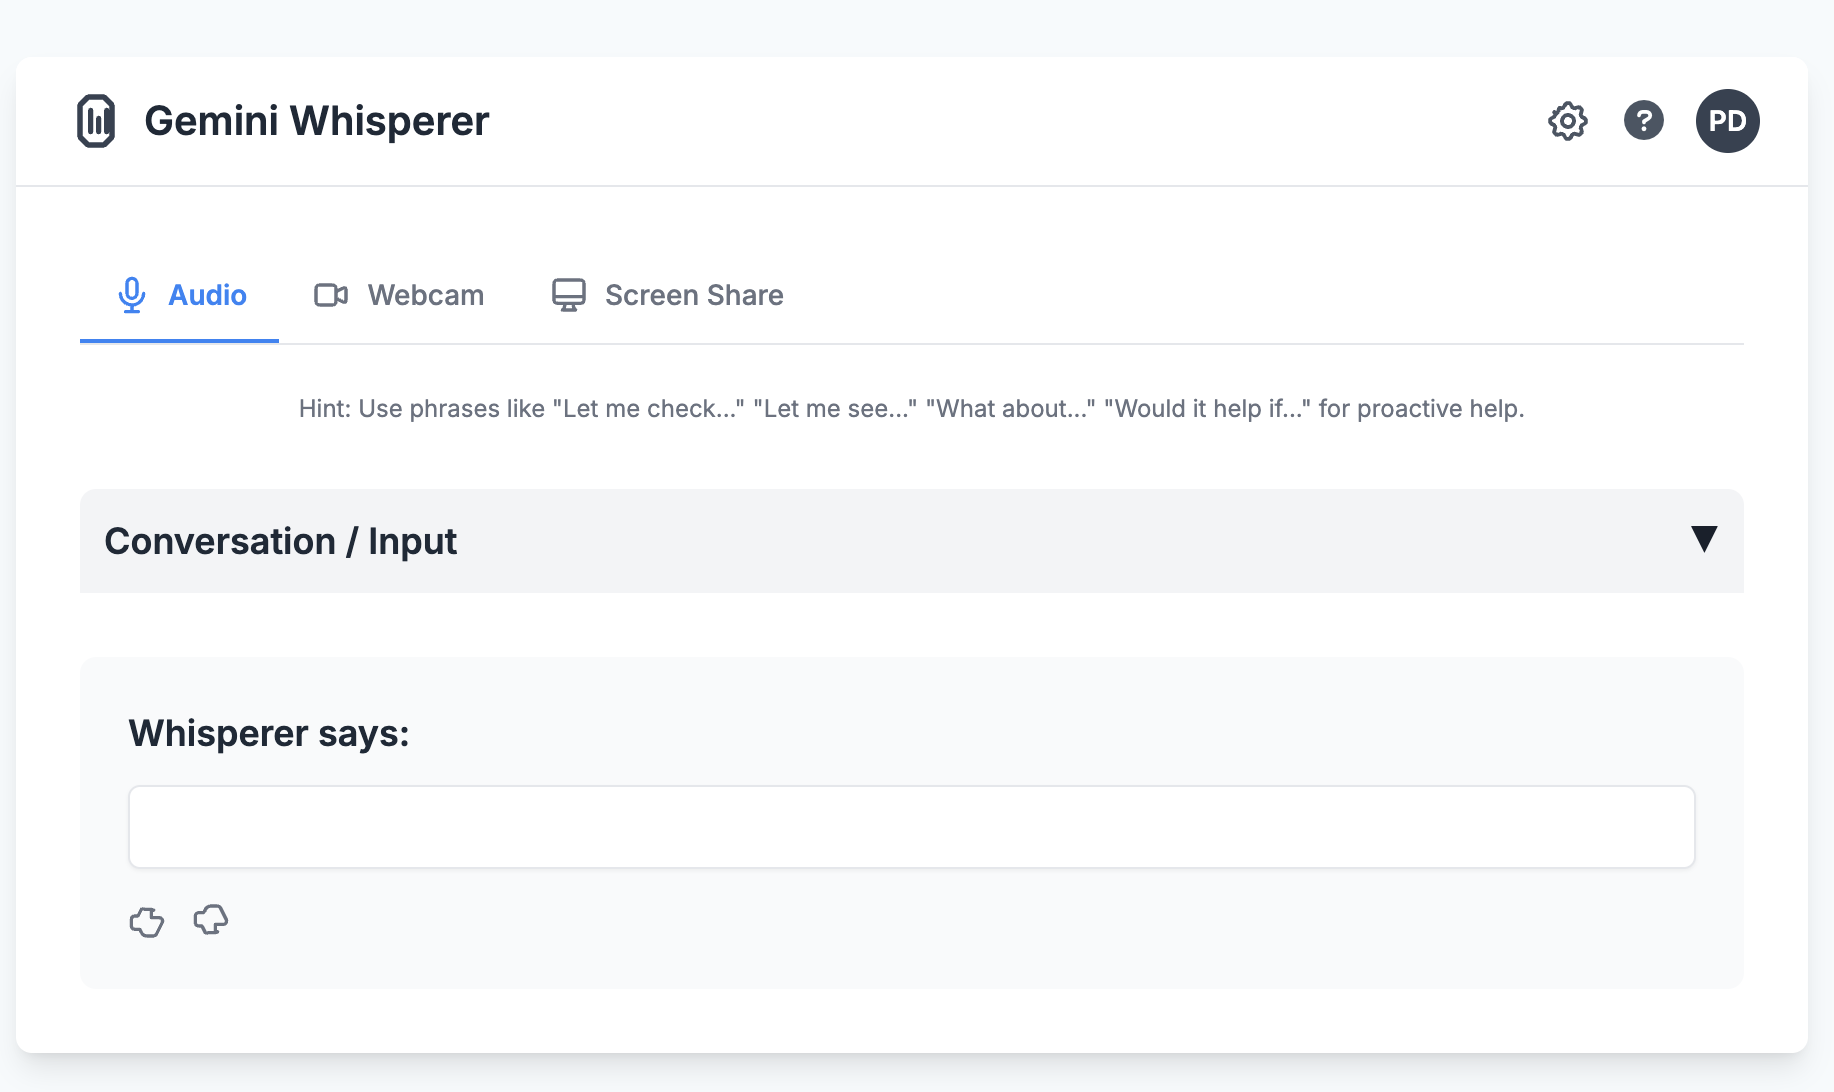
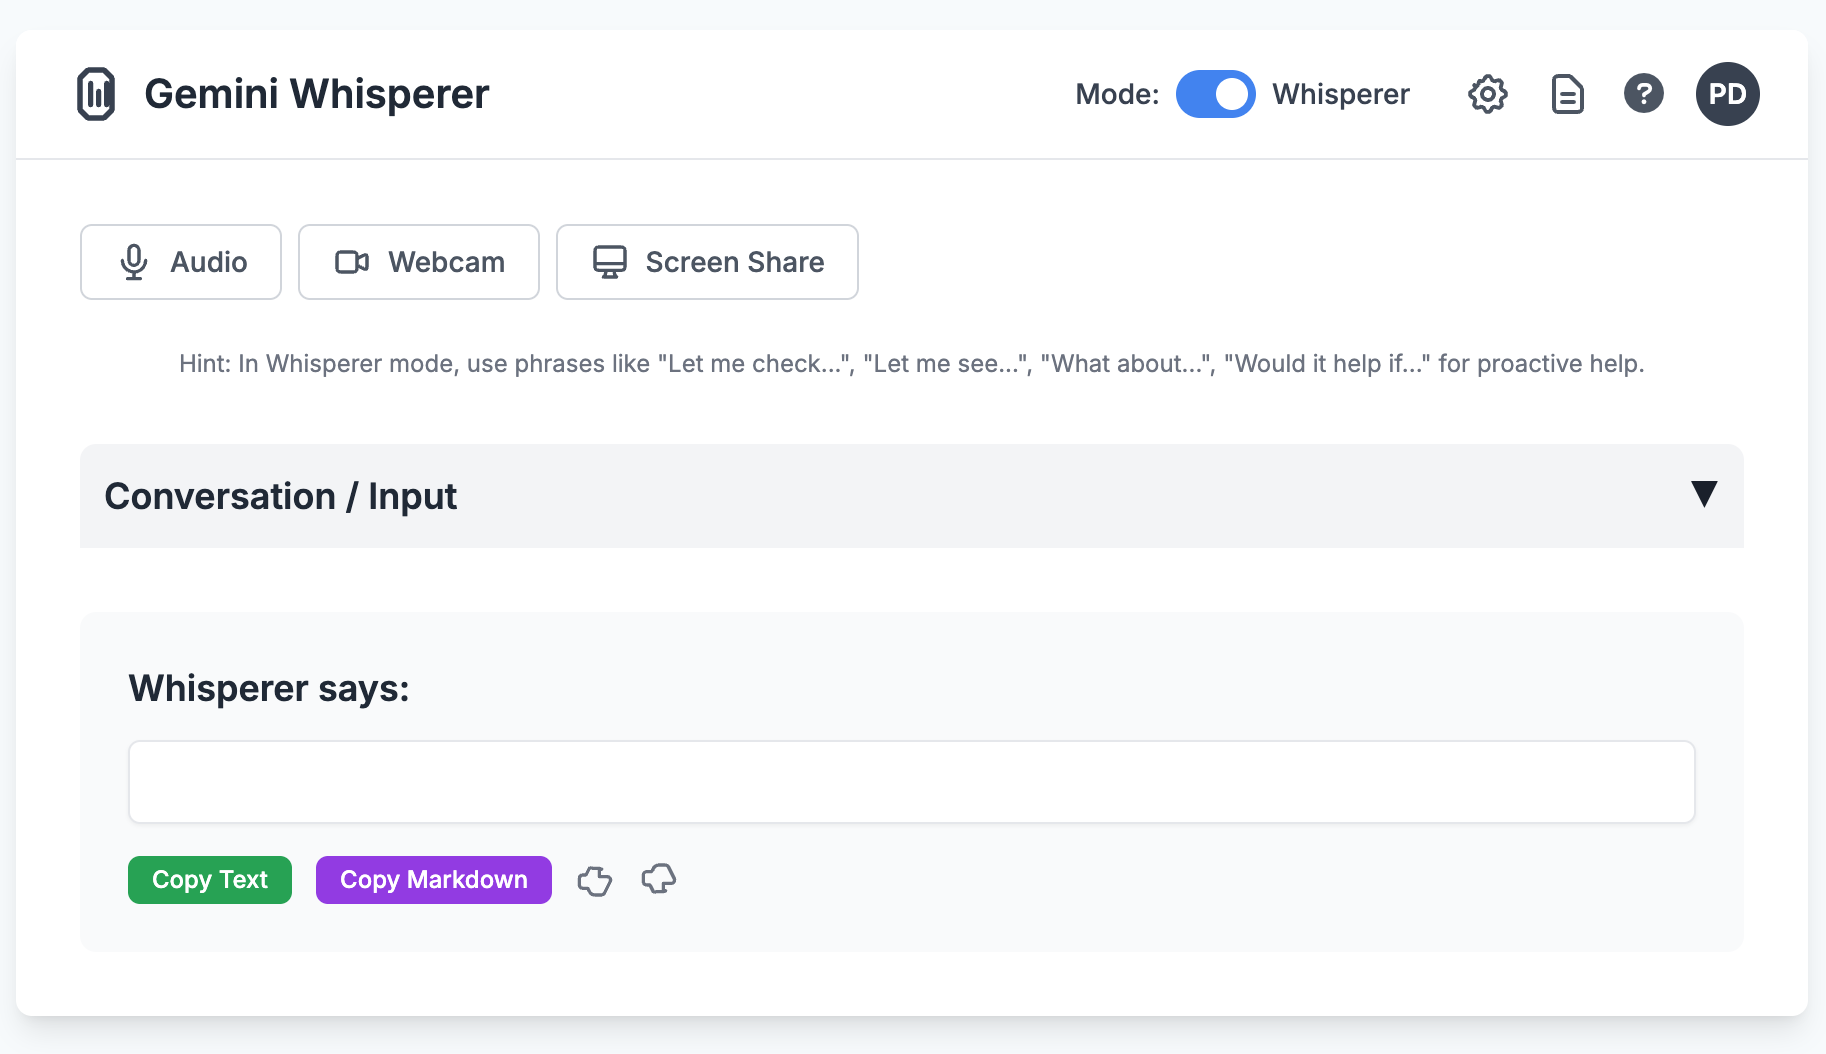
Modified readme, setup.sh and license

diff --git a/build.js b/build.js
@@ -1,5 +1,7 @@
 const fs = require('fs');
 const path = require('path');
+const Terser = require('terser');
+const csso = require('csso');
 
 const HTML_INPUT_PATH = 'index.html';
 const CSS_INPUT_PATH = 'css/styles.css';
@@ -132,8 +134,18 @@ async function buildSingleHtmlFile() {
     }
 
     let htmlContent = readFileContent(HTML_INPUT_PATH);
-    const cssContent = readFileContent(CSS_INPUT_PATH);
-    const audioWorkletContent = readFileContent(AUDIO_WORKLET_PATH);
+    let cssContent = readFileContent(CSS_INPUT_PATH);
+    let audioWorkletContent = readFileContent(AUDIO_WORKLET_PATH);
+
+    // Minify CSS
+    console.log('Minifying CSS...');
+    try {
+        cssContent = csso.minify(cssContent).css;
+        console.log('CSS minified successfully.');
+    } catch (error) {
+        console.error('Error minifying CSS:', error);
+        process.exit(1);
+    }
 
     // Inline CSS
     console.log('Inlining CSS...');
@@ -141,6 +153,20 @@ async function buildSingleHtmlFile() {
         /<link\s+rel="stylesheet"\s+href="css\/styles\.css">/,
         `<style>\n${cssContent}\n</style>`
     );
+
+    // Minify Audio Worklet JS
+    console.log('Minifying Audio Worklet JS...');
+    try {
+        const minifiedWorklet = await Terser.minify(audioWorkletContent);
+        if (minifiedWorklet.error) {
+            throw minifiedWorklet.error;
+        }
+        audioWorkletContent = minifiedWorklet.code;
+        console.log('Audio Worklet JS minified successfully.');
+    } catch (error) {
+        console.error('Error minifying Audio Worklet JS:', error);
+        process.exit(1);
+    }
 
     // Concatenate and process JS files
     console.log('Processing JavaScript files...');
@@ -151,12 +177,9 @@ async function buildSingleHtmlFile() {
         allJsContent += processJsContent(jsContent, fullJsPath);
     }
     
-    // Prepare audio worklet code for inlining
-    const audioWorkletString = JSON.stringify(audioWorkletContent)
-        .replace(/\\n/g, '\\n') // Keep newlines escaped for the string
-        .slice(1, -1); // Remove surrounding quotes from JSON.stringify
-
     // Note: workletLoaderCode was removed from here. Its logic is integrated below.
+    // The variable 'audioWorkletString' that was here, created using JSON.stringify, was found to be unused 
+    // as the minified 'audioWorkletContent' is directly used for the Blob.
     
     // Prepare the main application code block that will go inside startGeminiLiveApp
     let mainAppCodeInner = `'use strict';\n`;
@@ -188,6 +211,20 @@ async function buildSingleHtmlFile() {
 
     // Prepend the EventEmitter UMD code, then wrap mainAppCodeInner in startGeminiLiveApp and add load listener
     allJsContent = `${EVENT_EMITTER_UMD_CODE}\n\nfunction startGeminiLiveApp() {\n${mainAppCodeInner}\n}\nwindow.addEventListener('load', startGeminiLiveApp);`;
+
+    // Minify all concatenated JavaScript
+    console.log('Minifying all JavaScript...');
+    try {
+        const minifiedJs = await Terser.minify(allJsContent);
+        if (minifiedJs.error) {
+            throw minifiedJs.error;
+        }
+        allJsContent = minifiedJs.code;
+        console.log('All JavaScript minified successfully.');
+    } catch (error) {
+        console.error('Error minifying JavaScript:', error);
+        process.exit(1);
+    }
     
     // Inline JavaScript
     console.log('Inlining JavaScript...');

diff --git a/js/ws/client.js b/js/ws/client.js
@@ -243,7 +243,7 @@ export class GeminiWebsocketClient extends EventEmitter {
 
     async sendJSON(json) {        
         try {
-            this.ws.send(JSON.stringify(json));
+            this.ws.send(JSON.stringify(json));t
             // console.debug(`JSON Object was sent to ${this.name}:`, json);
         } catch (error) {
             throw new Error(`Failed to send ${json} to ${this.name}:` + error);

diff --git a/README.md b/README.md
@@ -4,13 +4,16 @@ An ambient, always on AI assistant that listens silently in the background and s
 Imagine an ever-present, ambient AI that anticipates your needs and offers relevant information or assistance proactively.
 This would eliminate the need to switch between applications or windows, allowing for a smooth continuation of your current task or conversation.
 
-**Proactive Cues:** To encourage proactive assistance from Gemini Whisperer, you can use verbal cues such as:
+**Modes (Whisper vs. Live):** The application can operate in two main modes, affecting how the AI responds:
+- **Whisper Mode (Default):** Designed for more subtle, cued interaction. The AI primarily responds when specific verbal cues are detected in your speech. It aims to be less intrusive and will often remain silent unless cued. 
+You can use verbal cues such as:
+  - "Let me check..."
+  - "Let me see..."
+  - "What about..."
+  - "Would it help if..."
 
-- "Let me check..."
-- "Let me see..."
-- "What about..."
-- "Would it help if..."
-  These phrases can help the AI anticipate when you might be looking for information. More details can be found via the help icon (<i class="fas fa-question-circle"></i>) in the app.
+  These phrases can help the AI anticipate when you might be looking for information. 
+-   **Live Mode:** In this mode, the AI is more generally proactive. It listens for relevant topics or implicit needs in your ongoing conversation and may offer information or assistance without explicit verbal cues. The goal is still to be helpful and anticipate needs, but with a broader trigger for engagement compared to Whisper Mode.
 
 ## Key Features
 
@@ -20,10 +23,70 @@ This would eliminate the need to switch between applications or windows, allowin
 
 ## Prerequisites
 
-- Modern web browser with WebRTC, WebSocket, and Web Audio API support.
 - Google AI Studio API key for the Gemini API.
 - Node.js and npm (for running the build script).
-- A local HTTP server to run the bundled `index.html` file (e.g., `npx serve`, Python's `http.server`, or VS Code Live Server extension). This is necessary for `localStorage` access (API keys, settings).
+- A local HTTP server to run the bundled `dist/gemini_live_app.html` file (e.g., `npx serve`, Python's `http.server`, or VS Code Live Server extension). This is necessary for `localStorage` access (API keys, settings) to persist.
+
+## Project Setup
+
+1.  **Clone the Repository (if applicable):**
+    If you've obtained this project as a set of files, ensure they are in a dedicated directory. 
+
+2.  **Run the Setup Script:**
+    The easiest way to install dependencies is to use the provided setup script. Make it executable and run it:
+
+    ```bash
+    chmod +x setup.sh
+    ./setup.sh
+    ```
+
+    This script will check for Node.js and npm, and then install the required project dependencies.
+
+    **Alternatively, Manual Installation:**
+    If you prefer or if the script doesn't suit your environment, you can install dependencies manually after ensuring Node.js and npm are installed:
+
+    ```bash
+    npm install
+    ```
+
+    This will install packages listed in `package.json` (currently `terser` and `csso` for the build process).
+
+## Building the Project
+
+To bundle and prepare the application for use (including minifying CSS and JavaScript), run the build script:
+
+```bash
+node build.js
+```
+
+This command will:
+
+- Process and concatenate JavaScript files.
+- Minify JavaScript and CSS.
+- Inline all assets into a single HTML file.
+- The output will be created at `dist/gemini_live_app.html`.
+
+## Running the Application
+
+1.  **Open the built file:**
+    After a successful build, open the `dist/gemini_live_app.html` file in a modern web browser.
+
+2.  **Serving Locally (Recommended for Full Functionality):**
+    For all features to work correctly, especially saving API keys and settings (which use `localStorage`), it's recommended to serve the `dist` directory using a local HTTP server.
+
+    - Using Python:
+      ```bash
+      cd dist
+      python3 -m http.server
+      ```
+      Then open `http://localhost:8000/gemini_live_app.html` in your browser.
+    - Using `npx serve` (Node.js required):
+      ```bash
+      npx serve dist
+      ```
+      Then open the URL provided by `serve` (usually `http://localhost:3000`, and navigate to `gemini_live_app.html`).
+    - Using VS Code Live Server extension if you are developing.
+
 
 ## UI Overview
 
